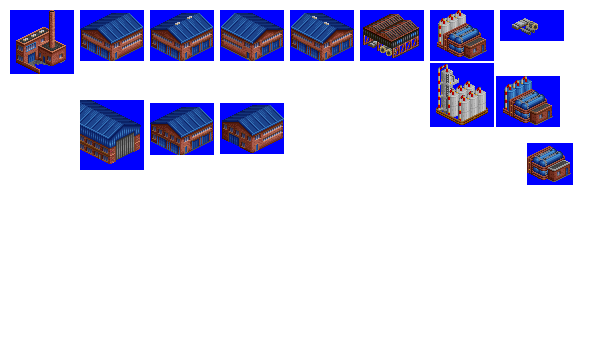
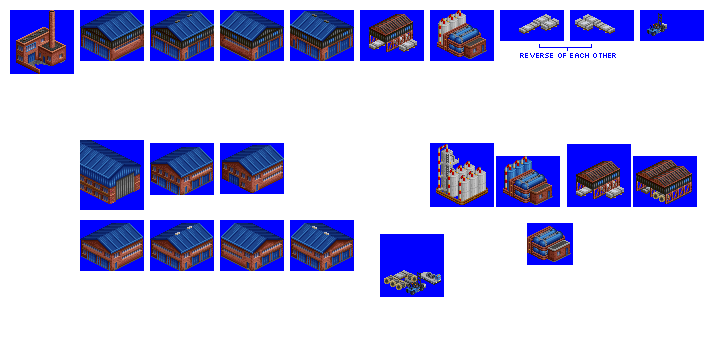
Change: improved appearance of Long Products Mill

diff --git a/src/industries/long_products_mill.py b/src/industries/long_products_mill.py
@@ -53,6 +53,12 @@ spriteset_7 = industry.add_spriteset(
 spriteset_8 = industry.add_spriteset(
     sprites=[(500, 10, 64, 31, -31, 0)],
 )
+spriteset_9 = industry.add_spriteset(
+    sprites=[(570, 10, 64, 31, -31, 0)],
+)
+spriteset_10 = industry.add_spriteset(
+    sprites=[(640, 10, 64, 31, -31, -10)],
+)
 sprite_smoke = industry.add_smoke_sprite(
     smoke_type='white_smoke_small',
     xoffset=-5,
@@ -111,60 +117,77 @@ industry.add_spritelayout(
     fences=['nw', 'ne', 'se', 'sw']
 )
 industry.add_spritelayout(
-    id='long_products_mill_spritelayout_greeble',
+    id='long_products_mill_spritelayout_steel_pile_sw_ne',
     ground_sprite=spriteset_ground,
     ground_overlay=spriteset_ground_overlay,
     building_sprites=[spriteset_8],
     fences=['nw', 'ne', 'se', 'sw']
+)
+industry.add_spritelayout(
+    id='long_products_mill_spritelayout_steel_pile_se_nw',
+    ground_sprite=spriteset_ground,
+    ground_overlay=spriteset_ground_overlay,
+    building_sprites=[spriteset_9],
+    fences=['nw', 'ne', 'se', 'sw']
+)
+industry.add_spritelayout(
+    id='long_products_mill_spritelayout_greeble',
+    ground_sprite=spriteset_ground,
+    ground_overlay=spriteset_ground_overlay,
+    building_sprites=[spriteset_10],
+    fences=[]
+)
+industry.add_spritelayout(
+    id='long_products_mill_spritelayout_empty',
+    ground_sprite=spriteset_ground,
+    ground_overlay=spriteset_ground_overlay,
+    building_sprites=[],
+    fences=[]
 )
 
 # long products mill uses non-standard layouts where some sprites only used for some orientiations (sw_ne or se_nw)
 # this is to achieve the appearance of 'long'
 industry.add_industry_layout(
     id='long_products_mill_industry_layout_1',
-    layout=[(0, 0, 'long_products_mill_tile_1', 'long_products_mill_spritelayout_shed_sw_ne_2'),
+    layout=[(0, 0, 'long_products_mill_tile_1', 'long_products_mill_spritelayout_shed_sw_ne_1'),
             (0, 1, 'long_products_mill_tile_1', 'long_products_mill_spritelayout_boilerhouse'),
-            (0, 2, 'long_products_mill_tile_1', 'long_products_mill_spritelayout_greeble'),
-            (1, 0, 'long_products_mill_tile_1', 'long_products_mill_spritelayout_shed_sw_ne_1'),
-            (1, 1, 'long_products_mill_tile_1', 'long_products_mill_spritelayout_shed_sw_ne_1'),
-            (1, 2, 'long_products_mill_tile_1', 'long_products_mill_spritelayout_greeble'),
+            (0, 2, 'long_products_mill_tile_1', 'long_products_mill_spritelayout_open_shed'),
+            (1, 0, 'long_products_mill_tile_1', 'long_products_mill_spritelayout_shed_sw_ne_2'),
+            (1, 1, 'long_products_mill_tile_1', 'long_products_mill_spritelayout_steel_pile_se_nw'),
+            (1, 2, 'long_products_mill_tile_1', 'long_products_mill_spritelayout_steel_pile_sw_ne'),
             (2, 0, 'long_products_mill_tile_1', 'long_products_mill_spritelayout_shed_sw_ne_2'),
             (2, 1, 'long_products_mill_tile_1', 'long_products_mill_spritelayout_shed_sw_ne_2'),
-            (2, 2, 'long_products_mill_tile_1', 'long_products_mill_spritelayout_greeble'),
+            (2, 2, 'long_products_mill_tile_1', 'long_products_mill_spritelayout_empty'),
             (3, 0, 'long_products_mill_tile_1', 'long_products_mill_spritelayout_shed_sw_ne_1'),
             (3, 1, 'long_products_mill_tile_1', 'long_products_mill_spritelayout_shed_sw_ne_1'),
-            (3, 2, 'long_products_mill_tile_1', 'long_products_mill_spritelayout_greeble'),
-            (4, 0, 'long_products_mill_tile_1', 'long_products_mill_spritelayout_shed_sw_ne_2'),
+            (3, 2, 'long_products_mill_tile_1', 'long_products_mill_spritelayout_steel_pile_sw_ne'),
+            (4, 0, 'long_products_mill_tile_1', 'long_products_mill_spritelayout_open_shed'),
             (4, 1, 'long_products_mill_tile_1', 'long_products_mill_spritelayout_shed_sw_ne_2'),
-            (4, 2, 'long_products_mill_tile_1', 'long_products_mill_spritelayout_greeble'),
-            (5, 0, 'long_products_mill_tile_1', 'long_products_mill_spritelayout_greeble'),
-            (5, 1, 'long_products_mill_tile_1', 'long_products_mill_spritelayout_greeble'),
+            (4, 2, 'long_products_mill_tile_1', 'long_products_mill_spritelayout_steel_pile_sw_ne'),
+            (5, 0, 'long_products_mill_tile_1', 'long_products_mill_spritelayout_tanks'),
+            (5, 1, 'long_products_mill_tile_1', 'long_products_mill_spritelayout_empty'),
             (5, 2, 'long_products_mill_tile_1', 'long_products_mill_spritelayout_greeble'),
-            (6, 0, 'long_products_mill_tile_1', 'long_products_mill_spritelayout_open_shed'),
-            (6, 1, 'long_products_mill_tile_1', 'long_products_mill_spritelayout_tanks'),
             ]
 )
 industry.add_industry_layout(
     id='long_products_mill_industry_layout_2',
-    layout=[(0, 0, 'long_products_mill_tile_1', 'long_products_mill_spritelayout_shed_se_nw_2'),
-            (0, 1, 'long_products_mill_tile_1', 'long_products_mill_spritelayout_shed_se_nw_1'),
+    layout=[(0, 0, 'long_products_mill_tile_1', 'long_products_mill_spritelayout_shed_se_nw_1'),
+            (0, 1, 'long_products_mill_tile_1', 'long_products_mill_spritelayout_shed_se_nw_2'),
             (0, 2, 'long_products_mill_tile_1', 'long_products_mill_spritelayout_shed_se_nw_2'),
             (0, 3, 'long_products_mill_tile_1', 'long_products_mill_spritelayout_shed_se_nw_1'),
-            (0, 4, 'long_products_mill_tile_1', 'long_products_mill_spritelayout_shed_se_nw_2'),
-            (0, 5, 'long_products_mill_tile_1', 'long_products_mill_spritelayout_greeble'),
-            (0, 6, 'long_products_mill_tile_1', 'long_products_mill_spritelayout_open_shed'),
+            (0, 4, 'long_products_mill_tile_1', 'long_products_mill_spritelayout_open_shed'),
+            (0, 5, 'long_products_mill_tile_1', 'long_products_mill_spritelayout_tanks'),
             (1, 0, 'long_products_mill_tile_1', 'long_products_mill_spritelayout_boilerhouse'),
-            (1, 1, 'long_products_mill_tile_1', 'long_products_mill_spritelayout_shed_se_nw_1'),
+            (1, 1, 'long_products_mill_tile_1', 'long_products_mill_spritelayout_steel_pile_sw_ne'),
             (1, 2, 'long_products_mill_tile_1', 'long_products_mill_spritelayout_shed_se_nw_2'),
             (1, 3, 'long_products_mill_tile_1', 'long_products_mill_spritelayout_shed_se_nw_1'),
             (1, 4, 'long_products_mill_tile_1', 'long_products_mill_spritelayout_shed_se_nw_2'),
-            (1, 5, 'long_products_mill_tile_1', 'long_products_mill_spritelayout_greeble'),
-            (1, 6, 'long_products_mill_tile_1', 'long_products_mill_spritelayout_tanks'),
-            (2, 0, 'long_products_mill_tile_1', 'long_products_mill_spritelayout_greeble'),
-            (2, 1, 'long_products_mill_tile_1', 'long_products_mill_spritelayout_greeble'),
-            (2, 2, 'long_products_mill_tile_1', 'long_products_mill_spritelayout_greeble'),
-            (2, 3, 'long_products_mill_tile_1', 'long_products_mill_spritelayout_greeble'),
-            (2, 4, 'long_products_mill_tile_1', 'long_products_mill_spritelayout_greeble'),
+            (1, 5, 'long_products_mill_tile_1', 'long_products_mill_spritelayout_empty'),
+            (2, 0, 'long_products_mill_tile_1', 'long_products_mill_spritelayout_open_shed'),
+            (2, 1, 'long_products_mill_tile_1', 'long_products_mill_spritelayout_steel_pile_se_nw'),
+            (2, 2, 'long_products_mill_tile_1', 'long_products_mill_spritelayout_empty'),
+            (2, 3, 'long_products_mill_tile_1', 'long_products_mill_spritelayout_steel_pile_se_nw'),
+            (2, 4, 'long_products_mill_tile_1', 'long_products_mill_spritelayout_steel_pile_se_nw'),
             (2, 5, 'long_products_mill_tile_1', 'long_products_mill_spritelayout_greeble'),
             ]
 )
